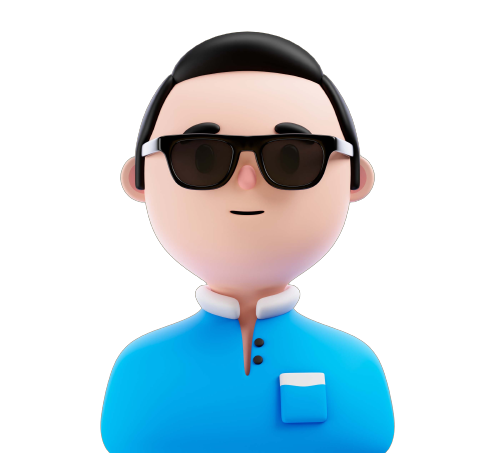
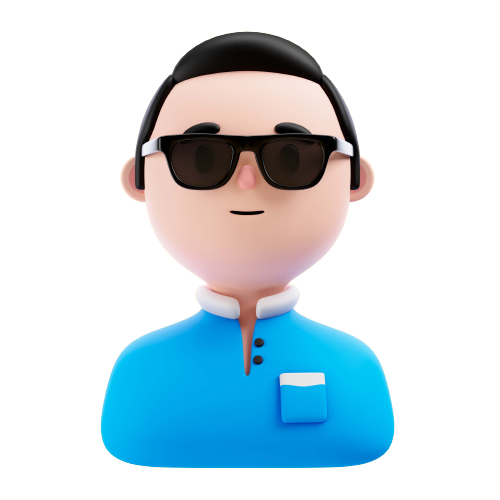
update

Changed region(s): [[0.18, 0.0618, 0.81, 1.0]]

diff --git a/index.html b/index.html
@@ -154,7 +154,7 @@ radial-gradient(at 3% 23%, hsla(50, 98%, 64%, 0.159) 0px, transparent 50%);
                         Using these technologies, we can develop amazing webpages for you.
                     </p>
                 </div>
-                <div class="grid grid-cols-3 md:flex">
+                <div class="grid grid-cols-3 md:grid-cols-6 w-full">
                     <!--html-->
                     <svg class="h-[110px] md:h-[150px] lg:h-[200px]" xmlns="http://www.w3.org/2000/svg"
                         viewBox="0 0 48 48">
@@ -290,9 +290,9 @@ radial-gradient(at 3% 23%, hsla(50, 98%, 64%, 0.159) 0px, transparent 50%);
                 <div class="w-full mb-6 px-6 sm:px-6 lg:px-10">
                     <div class="flex flex-col">
                         <!-- Avatar -->
-                        <div href="#" class="mx-auto bg-[#ffe6a6] rounded-2xl hover:mb-5 duration-500">
+                        <div href="#" class="mx-auto bg-[#ffe6a6] rounded-2xl hover:mb-5 duration-500 pt-[65px]">
                             <img class="hover:scale-110 duration-500 rounded-2xl drop-shadow-md hover:drop-shadow-xl transition-all duration-200 delay-100 w-[600px]"
-                                src="character-1.png">
+                                src="character-1-copy.png">
                         </div>
 
                         <!-- Details -->
